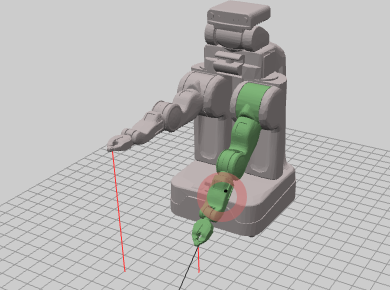
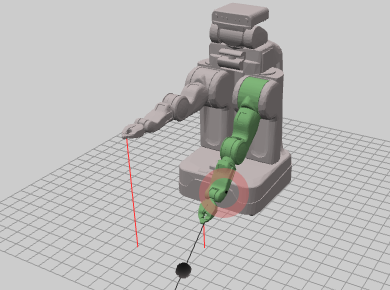
added target object

Changed region(s): [[0.0, 0.0, 1.0, 1.0]]

diff --git a/scenes/joint_snapping/index.html b/scenes/joint_snapping/index.html
@@ -50,6 +50,7 @@
 
                 var dae;
                 var collada;
+                var target_object;
 
                 var kinematics;
 
@@ -169,6 +170,13 @@
                     solver.setParentToWorld(link.parent.matrixWorld.elements);
                 }
 
+                function getLeftArmGroundPoint() {
+                    var ground_plane = new THREE.Plane(new THREE.Vector3(0,-1,0), 0);
+                    var line = new THREE.Line3(snap_guide.localToWorld(snap_guide.geometry.vertices[0].clone()),
+                                               snap_guide.localToWorld(snap_guide.geometry.vertices[1].clone()));
+                    return ground_plane.intersectLine(line);
+                }
+
                 function setJoint(link_name, angle) {
                     var TOLERANCE = 5;
                     var TARGET_ANGLE = 40;
@@ -279,6 +287,13 @@
                     drag_point_visual = new THREE.Mesh( geometry, material );
                     drag_point_visual.visible = false;
                     link.add(drag_point_visual);
+
+                    // 
+                    var material = new THREE.MeshPhongMaterial( { color: 0x666666 } );
+                    var geometry = new THREE.SphereGeometry(0.5); 
+                    target_object = new THREE.Mesh( geometry, material );
+                    scene.add(target_object);
+                    target_object.position.set(9.9229, 0, -2.0295);
 
                     // Lights
                     particleLight = new THREE.Mesh( new THREE.SphereGeometry( 4, 8, 8 ), new THREE.MeshBasicMaterial( { color: 0xffffff } ) );
